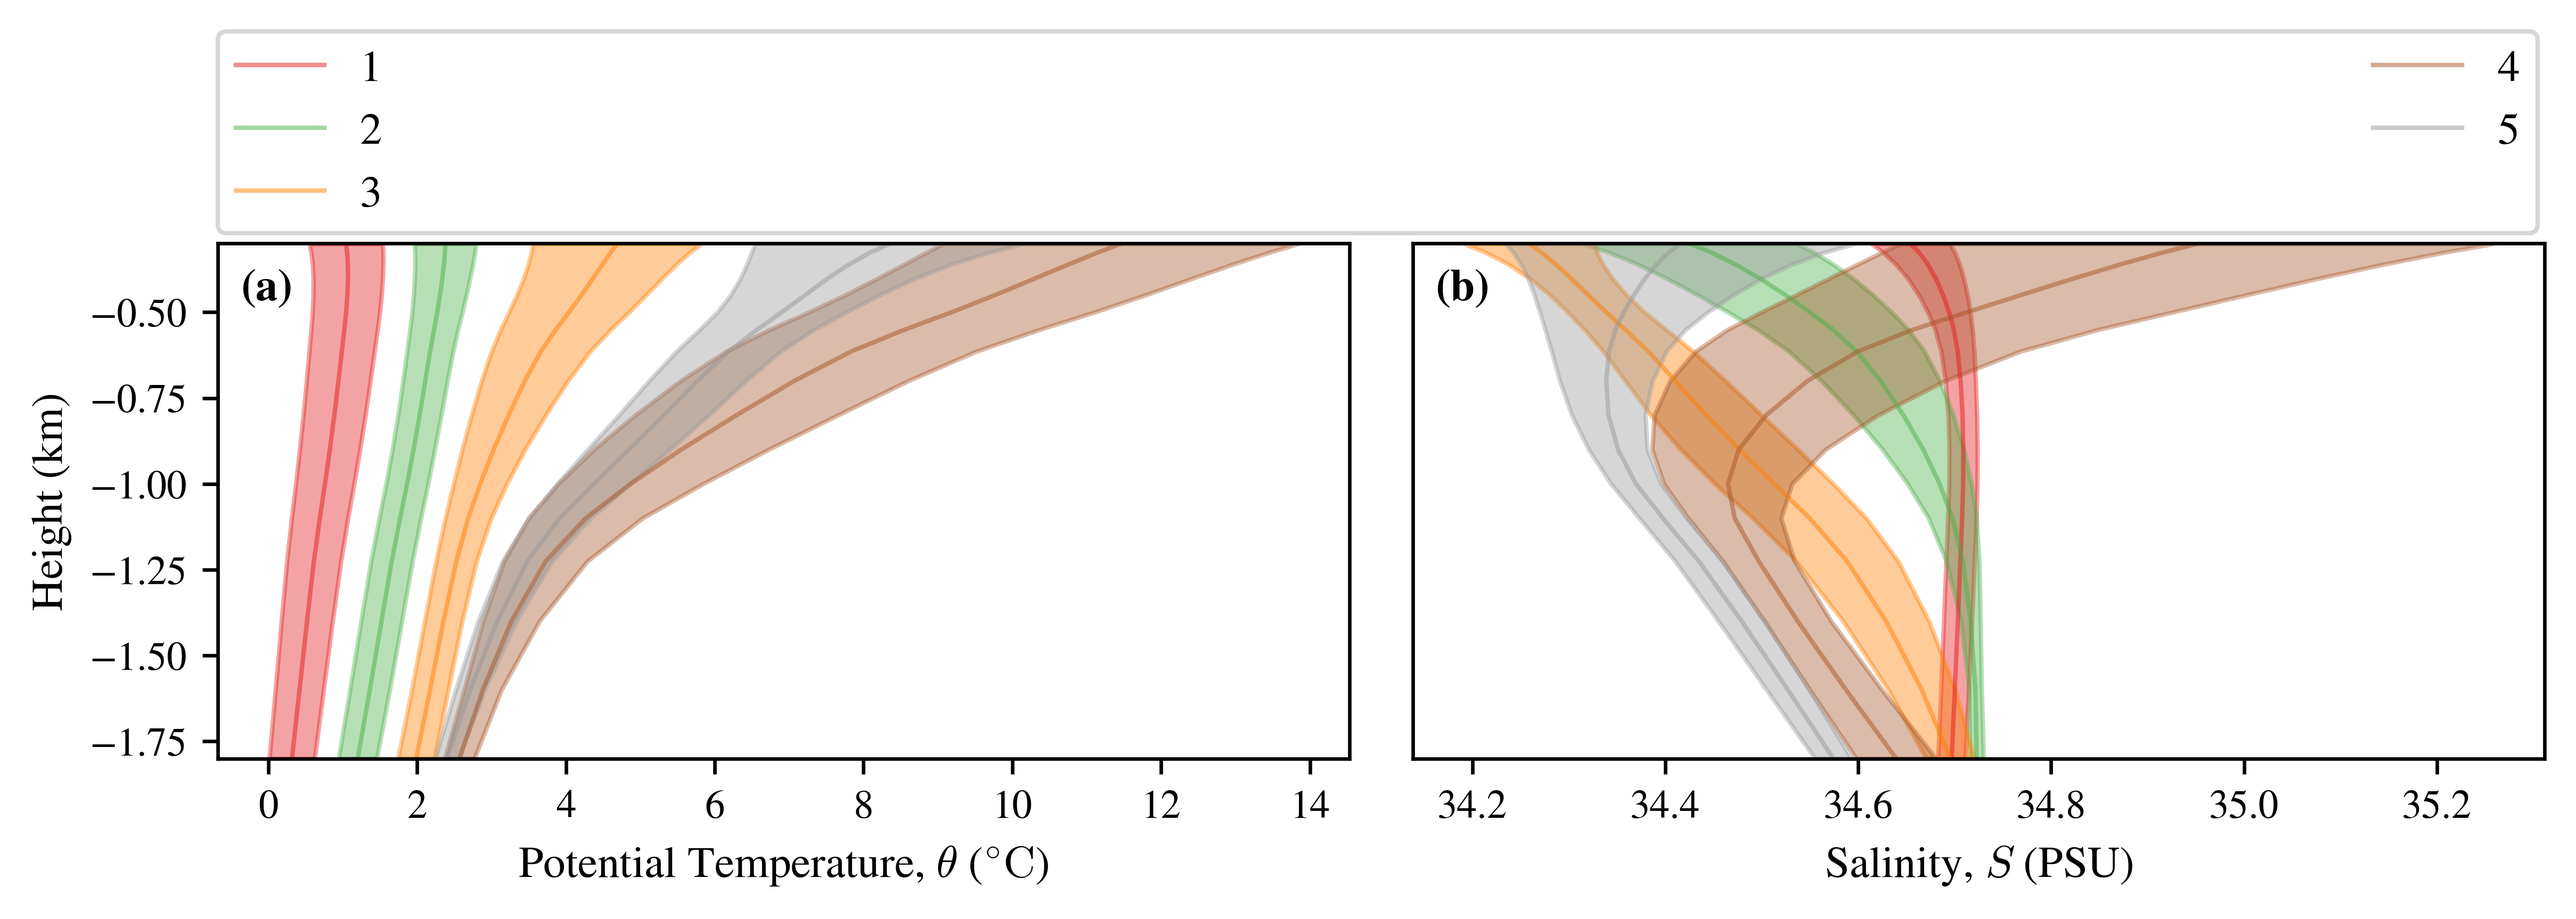
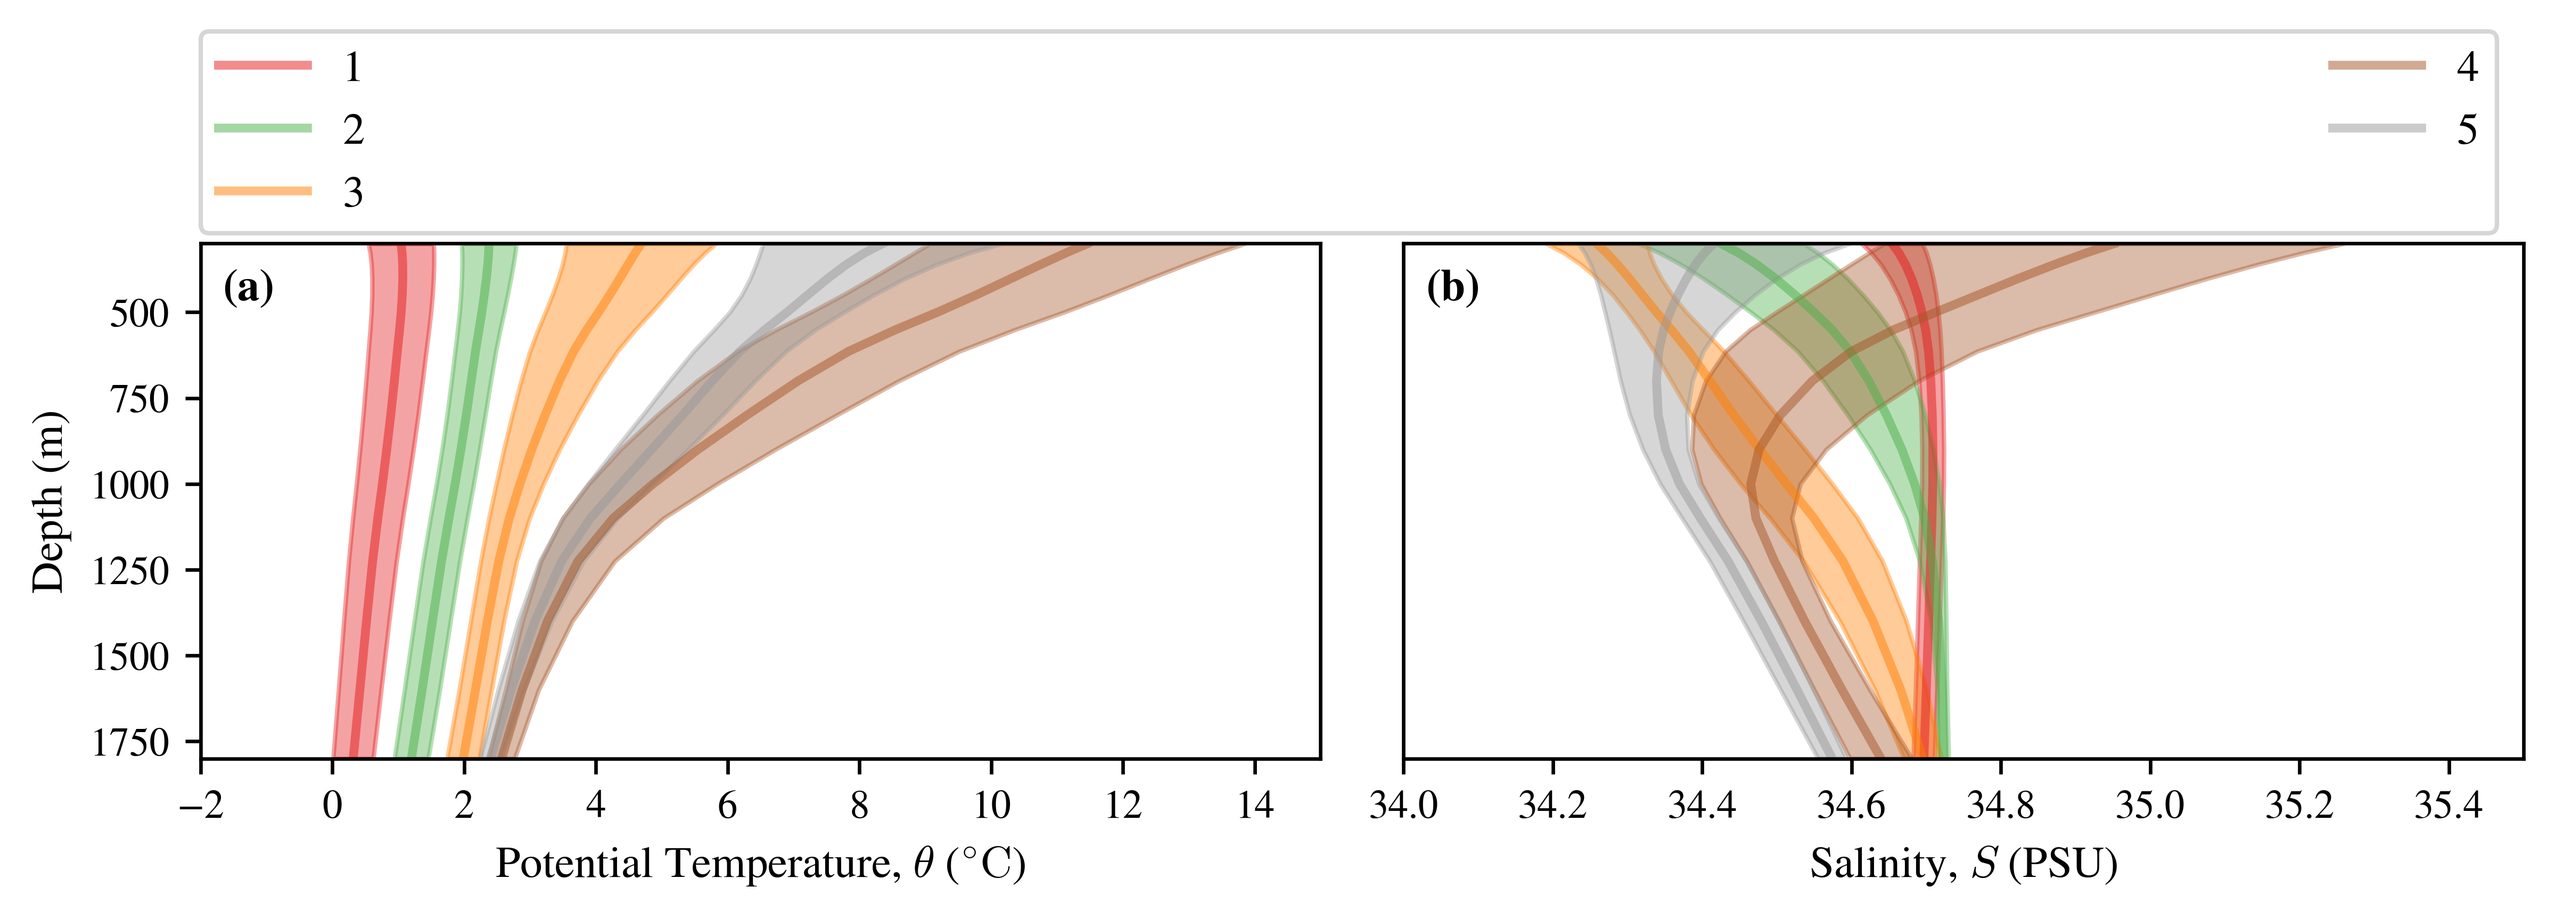
ext: profiles update

diff --git a/src/plot/profiles.py b/src/plot/profiles.py
@@ -102,7 +102,7 @@ def plot_profiles(ds: xr.Dataset) -> None:
     print("k_clusters", k_clusters)
 
     color_list = col.cluster_colors(k_clusters)
-    ylim = [-1.8, -0.3]
+    ylim = [300, 1800]
 
     def plot_part(mean_name: str, std_name: str) -> None:
         """
@@ -115,14 +115,15 @@ def plot_profiles(ds: xr.Dataset) -> None:
         for i in range(0, k_clusters):
             plt.plot(
                 ds.isel(cluster=i)[mean_name],
-                ds.coords[cst.Z_COORD].values / 1000,
+                -ds.coords[cst.Z_COORD].values,
                 color=color_list[i],
+                linewidth=2,
                 alpha=0.5,
                 label=str(i + 1),
             )
             for sig_mult, alpha in [[1, 0.4]]:
                 plt.fill_betweenx(
-                    ds.coords[cst.Z_COORD].values / 1000,
+                    -ds.coords[cst.Z_COORD].values,
                     ds.isel(cluster=i)[mean_name]
                     - np.multiply(sig_mult, ds.isel(cluster=i)[std_name]),
                     ds.isel(cluster=i)[mean_name]
@@ -134,22 +135,22 @@ def plot_profiles(ds: xr.Dataset) -> None:
     # THETA PLOTTING.
     plt.subplot(1, 2, 1)
     ax1 = plt.gca()
-
     plot_part("theta_mean", "theta_std")
-
     ax1.set_xlabel(r"Potential Temperature, $\theta$ ($^{\circ}\mathrm{C}$)")
-    ax1.set_ylabel("Height (km)")
+    ax1.set_ylabel("Depth (m)")
     ax1.set_ylim(ylim)
+    ax1.set_xlim([-2, 15])
+    ax1.invert_yaxis()
 
     # SALINITY PLOTTING.
     plt.subplot(1, 2, 2)
     ax2 = plt.gca()
-
     plot_part("salt_mean", "salt_std")
-
     ax2.set_xlabel(r"Salinity, $S$ (PSU)")
     ax2.set_ylim(ylim)
+    ax2.set_xlim([34, 35.5])
     ax2.set_yticks([])
+    ax2.invert_yaxis()
     plt.setp(ax2.get_yticklabels(), visible=False)
 
     ax1.legend(

diff --git a/src/make_figures.py b/src/make_figures.py
@@ -103,6 +103,8 @@ def make_all_figures() -> None:
     plt.savefig(fig_prefix + "_profiles.png")
     plt.clf()
 
+    """
+
     # FIGURE 3: Plot 3d clusters.
     logger.info("Plot 3d clusters.")
 
@@ -172,8 +174,6 @@ def make_all_figures() -> None:
     plt.tight_layout()
     plt.savefig(fig_prefix + "_i_metric_comp.png")
     plt.clf()
-
-    # """
 
     # FIGURE 8: PC1 y grads
 
@@ -437,3 +437,5 @@ def make_all_figures() -> None:
             ma.masked_invalid(vvel_da.values.ravel()),
         )
         print("$G_x$ * PC" + str(pc), "UVEL", cor)
+
+    # """
